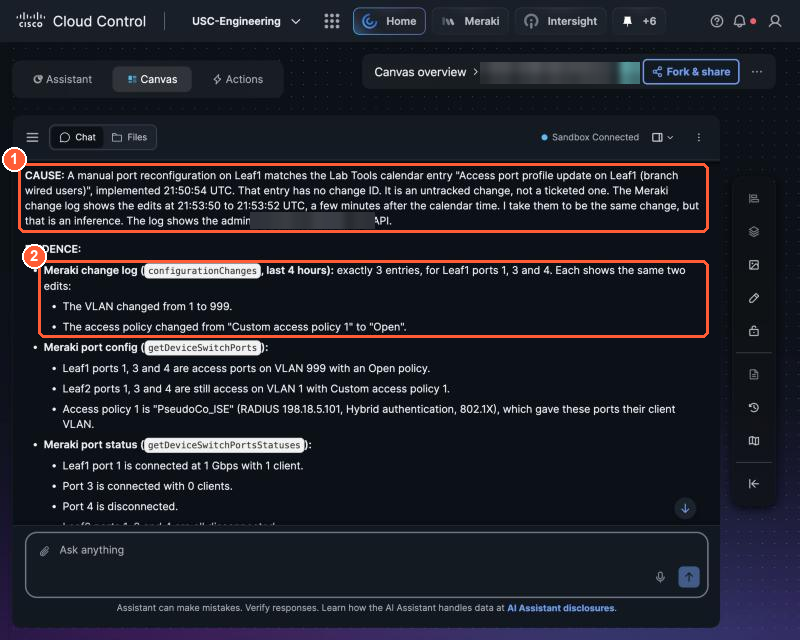
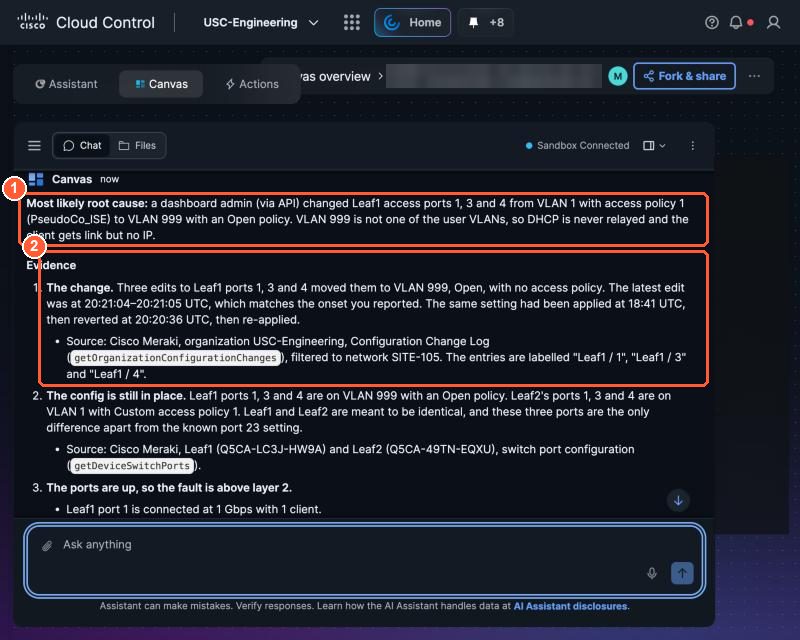
Part 1: environment reference via Lab Tools, refreshed fault screenshots
Canvas now gets the PseudoCo environment map from the Lab Tools integration,
so rung 1 goes to the Meraki Cloud Fabric (SITE-105) instead of Hyperfabric.
Rung text, captions and the 1.2/1.3 screenshots match the new answers;
troubleshooting covers the Hyperfabric mix-up.

diff --git a/docs/part1/1-2-diagnose.md b/docs/part1/1-2-diagnose.md
@@ -20,7 +20,8 @@ shows its plan and the commands it runs; open them to see which Cisco integratio
     starting a few minutes ago. What could cause this?
     ```
 
-    You get a list of possibilities. Useful, but generic.
+    Canvas picks the right system (Meraki Cloud Fabric, SITE-105) and often already reads the change
+    log. Open its plan and note which data it chose. The next rungs make it show and source that data.
 
 === "Rung 2: correlate"
 
@@ -49,6 +50,8 @@ shows its plan and the commands it runs; open them to see which Cisco integratio
     (the change log shows the edit), while Leaf2's matching ports still use the normal access VLAN
     and policy. Clients on those ports never reach the DHCP server, so they get no address. The fix
     it proposes is to restore the ports to match Leaf2, then confirm clients get an address again.
+    Canvas may already quote the matching change ticket from Lab Tools. In 1.3 you make that, plus
+    business impact, severity and on-call, part of a fixed answer format.
 
     ![04b-fault-cause](../img/04b-fault-cause.png){ loading=lazy }
 
@@ -56,7 +59,7 @@ shows its plan and the commands it runs; open them to see which Cisco integratio
 
     ![06-fault-nextstep](../img/06-fault-nextstep.png){ loading=lazy }
 
-    *A good rung 4 answer: (1) a concrete fix and how to verify it, (2) no change made. Names from the change log are blurred.*
+    *A good rung 4 answer: (1) a concrete fix that makes Leaf1 match Leaf2, then how to verify it, (2) no change made.*
 
 
 

diff --git a/docs/part1/1-1-orientation.md b/docs/part1/1-1-orientation.md
@@ -51,6 +51,10 @@ On the Canvas **Integrations** page:
    (**Replace my bearer token**). Paste your **seat token** from the seat card and save.
 4. Make sure **Enabled for me** is ticked.
 
+Lab Tools also carries a short **PseudoCo environment** reference: which product owns the "Cloud Fabric"
+(Meraki, site SITE-105, not Hyperfabric), how DHCP reaches AD-1, and the read-only rules. It is what a new
+engineer would get on day one, and Canvas reads it whenever Lab Tools is enabled for you.
+
     ![03-canvas-custom-integrations](../img/03-canvas-custom-integrations.png){ loading=lazy }
 
     *(1) Custom Integrations, (2) Lab Tools. When you are done, (3) Your credential shows Saved and (4) Enabled for me is ticked.*

diff --git a/docs/reference/troubleshooting.md b/docs/reference/troubleshooting.md
@@ -8,6 +8,12 @@
 - A Studio MCP integration with *Canvas Direct* does not make tools appear in Canvas chat. Canvas
   uses its own **Custom Integrations** (OpenAPI). Use Lab Tools there.
 
+## Canvas looks at Hyperfabric (USC-HF-LEAF1/2) instead of the Meraki Cloud Fabric
+
+Canvas did not get the PseudoCo environment reference, which comes with Lab Tools. Check that Lab Tools
+is **Enabled for me** with your credential saved (above), start a **new** board, and ask again. You can
+also say it outright: "the Meraki Cloud Fabric, org USC-Engineering, network SITE-105".
+
 ## "missing or invalid bearer token" (401)
 
 Your seat token was mistyped, has a trailing space, or belongs to an earlier session (tokens change
